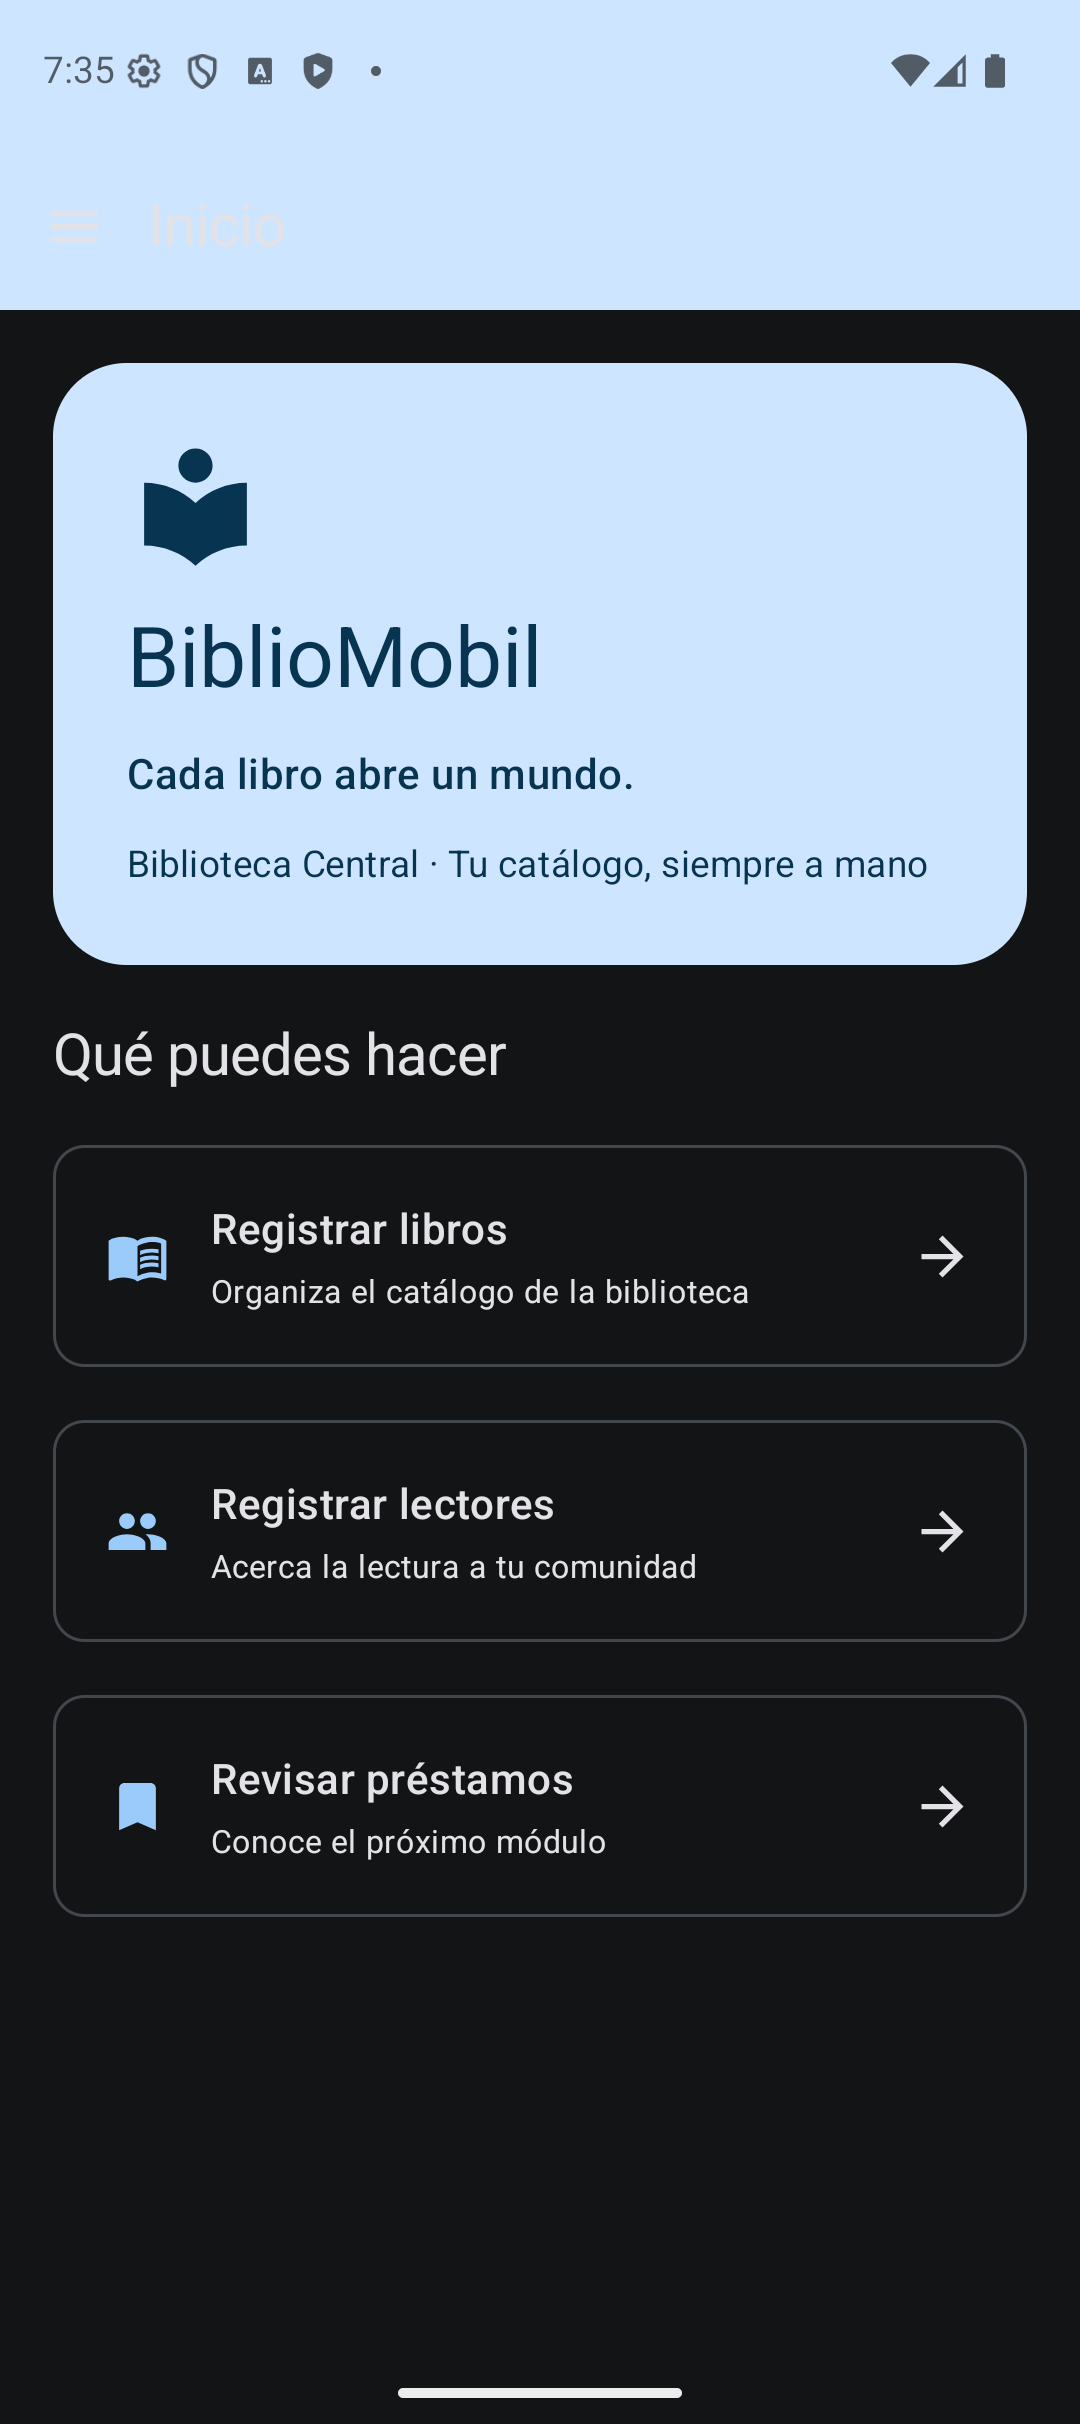
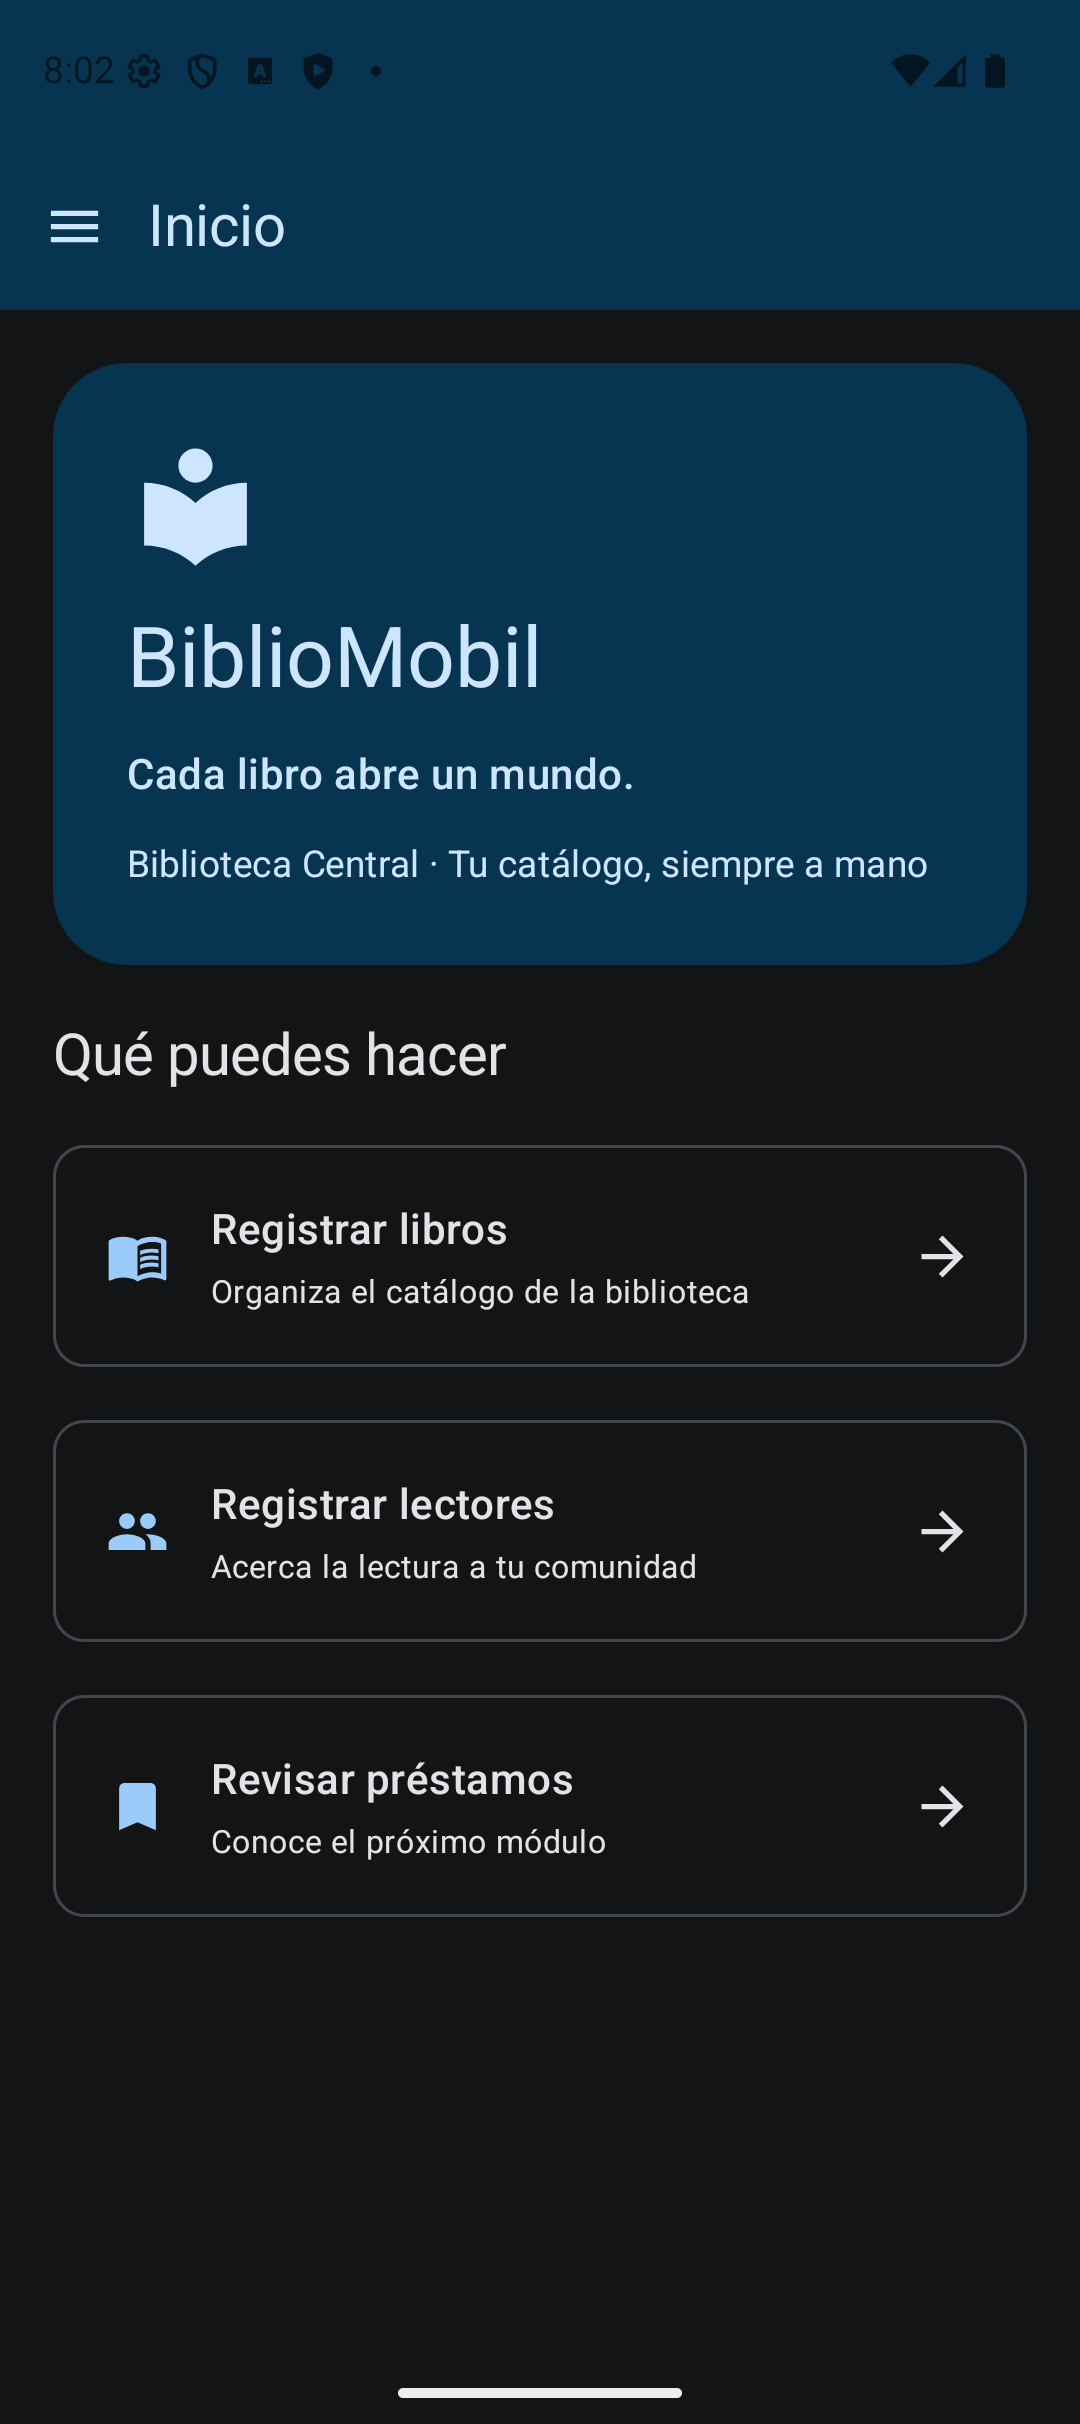
Completa las ocho capturas y restaura la aplicación normal

diff --git a/docs/VERIFICACION.md b/docs/VERIFICACION.md
@@ -1,37 +1,24 @@
 # Estado de verificación
 
-Fecha: 15 de septiembre de 2026.
+## Android aprobado
 
-## Implementado
+El 15 de septiembre de 2026 se ejecutaron **48 pruebas, con 0 fallos y 0 omitidas**, y `:androidApp:assembleDebug` terminó correctamente. La salida real está en `RESPUESTAS.md` y `PRUEBAS.log`. Se crearon los diez commits por ítem y el commit de documentación en la rama `feature/clean-mvvm`.
 
-- Modelos y constantes del Anexo A: Libro con año, Lector y préstamos con días y multa.
-- Contratos suspend, cuatro casos de uso, errores por campo y cancelación propagada.
-- Repositorios en memoria con Mutex, identificadores correlativos y latencia.
-- Formularios, StateFlow, cuatro fases, limpieza y recarga.
-- Koin por interfaces y single, casos de uso factory, inicialización Android/iOS.
-- Inicio, destinos desde una lista, Saver de navegación y tema propio.
-- Paletas completas (incluidos los roles fixed y surfaceContainer) y corrección de contraste de la barra en modo oscuro.
-- 48 pruebas automatizadas escritas en commonTest.
-- Tres respuestas teóricas propuestas en RESPUESTAS.md.
+En el emulador se comprobó el registro de libros y lectores, teléfono ausente como «No registrado», navegación, modo claro/oscuro, conservación del formulario al rotar y doble toque sin registros duplicados. Un libro con 2 ejemplares mostró «Pocos ejemplares». Se actualizaron Inicio oscuro y Préstamos tras instalar la corrección de contraste.
 
-## Comprobado en el emulador
+## Capturas completas
 
-Con la versión instalada por Android Studio se verificó el registro de libros y lectores, navegación, tema claro/oscuro y pantalla de préstamos. Se registró a Elena (elena@example.org) sin teléfono y se comprobó «No registrado». Se escribió Rayuela, Cortazar, 1998 y 2 ejemplares; al rotar a horizontal y volver se conservaron el destino y los cuatro campos. Dos pulsaciones consecutivas en Registrar incrementaron el catálogo de 1 a 2 libros, y el nuevo libro mostró «Pocos ejemplares». El formulario se limpió después del registro.
+Se guardaron y revisaron las ocho capturas, incluidas Cargando y Error. El archivo LibroRepositorioEnMemoria.kt fue restaurado exactamente desde HEAD y git diff confirmó que no quedan modificaciones de la simulación. Falta ejecutar el cierre de reinstalación y commit desde la terminal; si ya se ejecutó, su resultado aparece al final de este documento.
 
-Estas comprobaciones corresponden al APK instalado antes de los últimos ajustes de colores. Debe reconstruirse el APK y actualizar las capturas oscuras para reflejar esos ajustes.
+## iOS pendiente
 
-## Pendiente: no declarar la entrega completa
+La inicialización de Koin desde Swift y el destino iOS están implementados, pero no se ha comprobado su compilación en macOS. En un Mac con Xcode, ejecutar:
 
-1. Ejecutar las 48 pruebas y compilar la última revisión. No hay todavía un reporte de pruebas aprobadas. La sesión de Codex recibe AccessDeniedException al resolver rutas Java incluso con permisos concedidos.
-2. Registrar los commits por ítem. La rama feature/clean-mvvm existe, pero la escritura del índice Git está bloqueada para esta sesión.
-3. Obtener libros-cargando.png y libros-error.png. La captura de error requiere una simulación temporal que no debe quedar en el código final.
-4. Actualizar las capturas oscuras después de compilar la corrección de contraste.
-5. Compilar el destino iOS en macOS con Xcode usando ./gradlew :shared:compileKotlinIosSimulatorArm64. No se ha verificado desde Windows.
-
-## Terminar desde la terminal de Android Studio
-
-```powershell
-powershell -ExecutionPolicy Bypass -File .\verificar-entrega.ps1 -CrearCommits
+```shell
+bash ./gradlew :shared:compileKotlinIosSimulatorArm64
 ```
 
-El script elige el JDK de Android Studio, ejecuta pruebas y compilación, comprueba los XML, pega la salida real en RESPUESTAS.md y crea commits separados por ítem solamente si Android pasa. No publica ningún repositorio. Un fallo detiene el script; debe revisarse docs/PRUEBAS.log. Tras añadir las capturas restantes, registrar un commit adicional de evidencias.
+El aviso de tests iOS deshabilitados en Windows no acredita esta comprobación. No declarar la entrega íntegramente verificada hasta obtener ese resultado.
+
+Cierre ejecutado el 2026-09-15 15:47: verificación Android correcta y aplicación normal reinstalada. Ocho capturas completas. Sigue pendiente comprobar iOS en macOS.
+

diff --git a/docs/CAPTURAS/README.md b/docs/CAPTURAS/README.md
@@ -1,18 +1,10 @@
-# Capturas requeridas
+# Evidencias visuales
 
-Guardar imágenes reales del emulador o dispositivo con estos nombres:
+Las ocho capturas exigidas están guardadas en esta carpeta y fueron revisadas visualmente. Son imágenes reales del emulador Pixel 9 (2), Android API 36.
 
-1. `inicio-claro.png`: portada con modo claro.
-2. `inicio-oscuro.png`: portada con modo oscuro.
-3. `libros-cargando.png`: indicador y texto de carga.
-4. `libros-vacio.png`: fase Sin libros.
-5. `libros-listado.png`: catálogo con título, autor, año, ejemplares y badge.
-6. `libros-error.png`: fase Error con Reintentar.
-7. `lectores-sin-telefono.png`: lector cuyo teléfono muestra No registrado.
-8. `prestamos.png`: Préstamos en construcción.
+- Inicio claro y oscuro.
+- Libros: Cargando, Sin libros, Con libros y Error con Reintentar.
+- Lectores con teléfono ausente: No registrado.
+- Préstamos en construcción.
 
-El enunciado permite provocar temporalmente el error en listar() para obtener la captura. Restablecer siempre el repositorio normal antes del commit final y repetir las pruebas. No presentar imágenes diseñadas o simuladas como capturas de ejecución.
-
-## Estado actual
-
-Hay seis capturas reales disponibles: Inicio claro/oscuro, Libros vacío/listado, Lectores sin teléfono y Préstamos. Faltan Cargando y Error. Las capturas oscuras son anteriores al ajuste final de contraste y deben actualizarse tras recompilar. Las imágenes no sustituyen la ejecución de las pruebas.
+Las capturas oscuras corresponden a la corrección de contraste. Para obtener Cargando y Error se usó temporalmente una demora y una excepción en listar(), como permite el enunciado. El archivo se restauró exactamente desde el commit aprobado y se comprobó que no tiene diferencias respecto a HEAD. El script capturar-estados.ps1 ahora únicamente verifica, reinstala la aplicación normal y guarda las evidencias; ya no introduce simulaciones.
